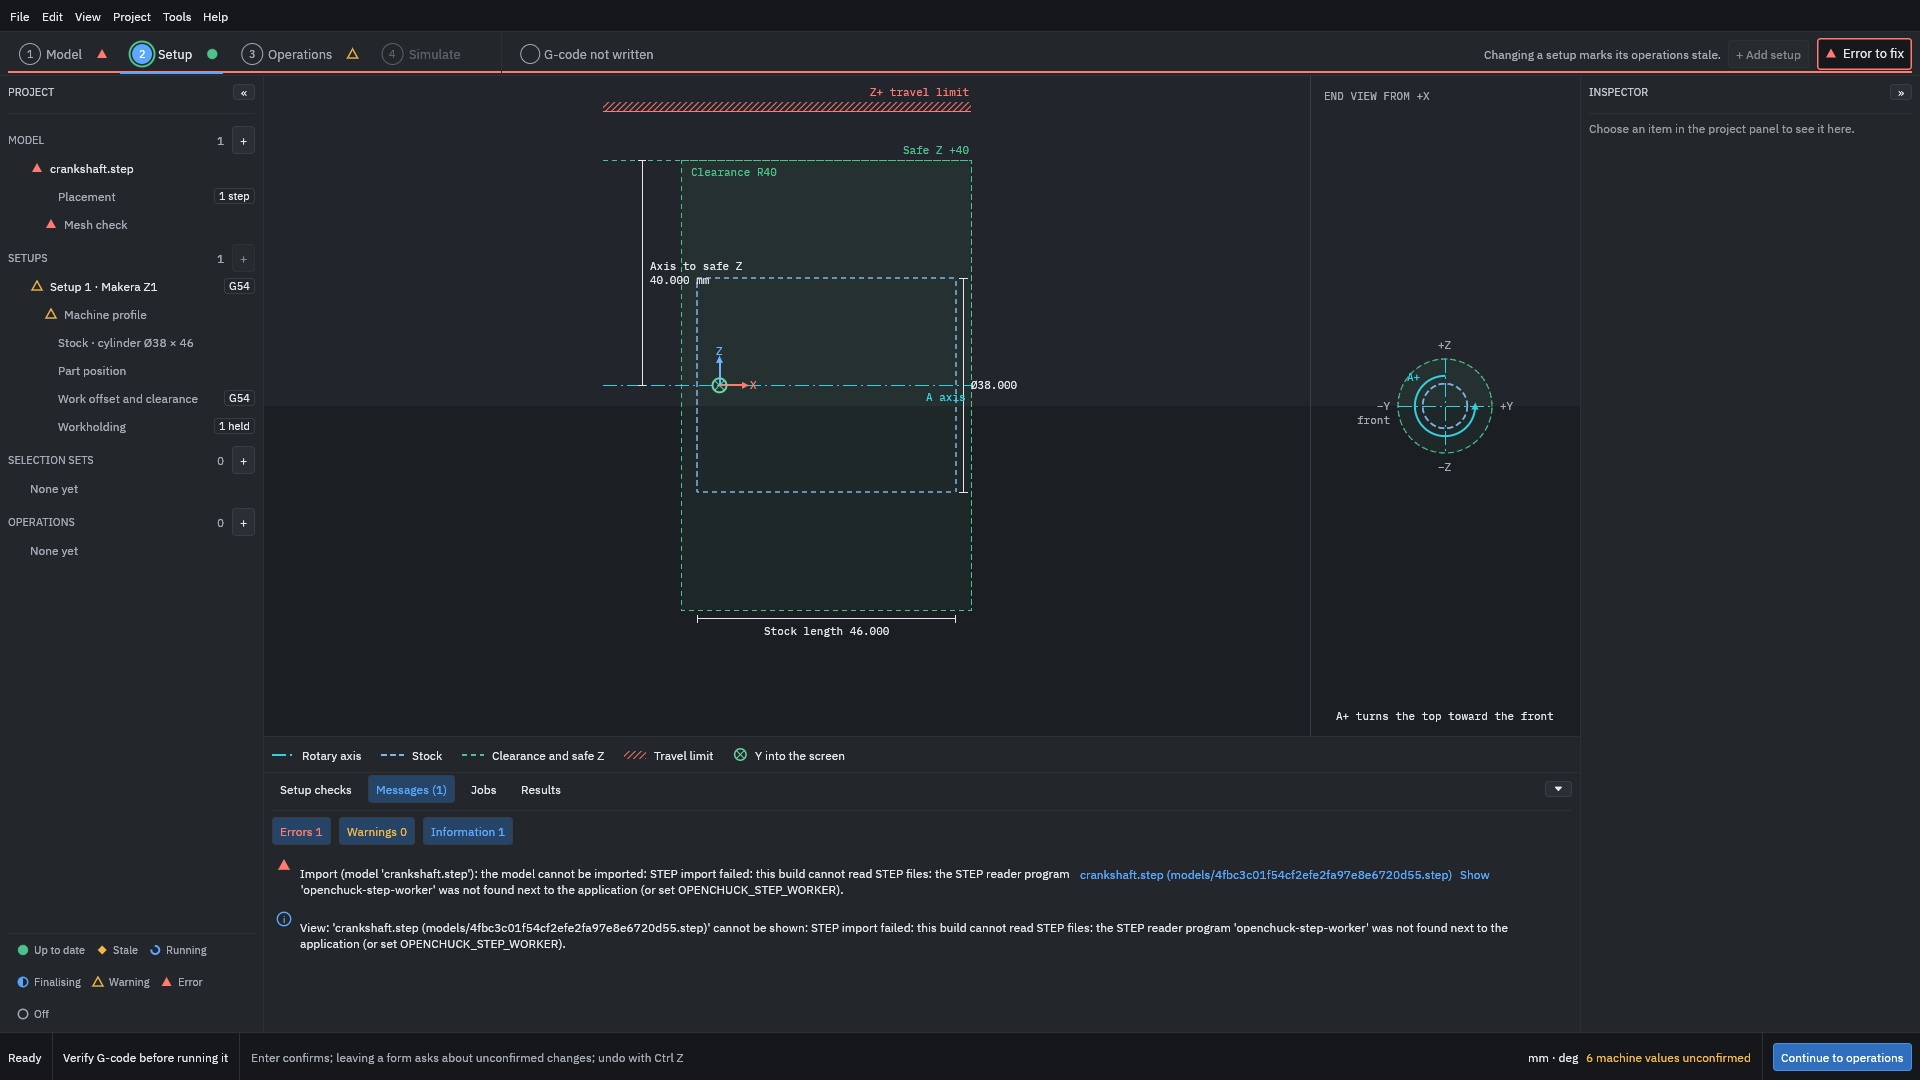
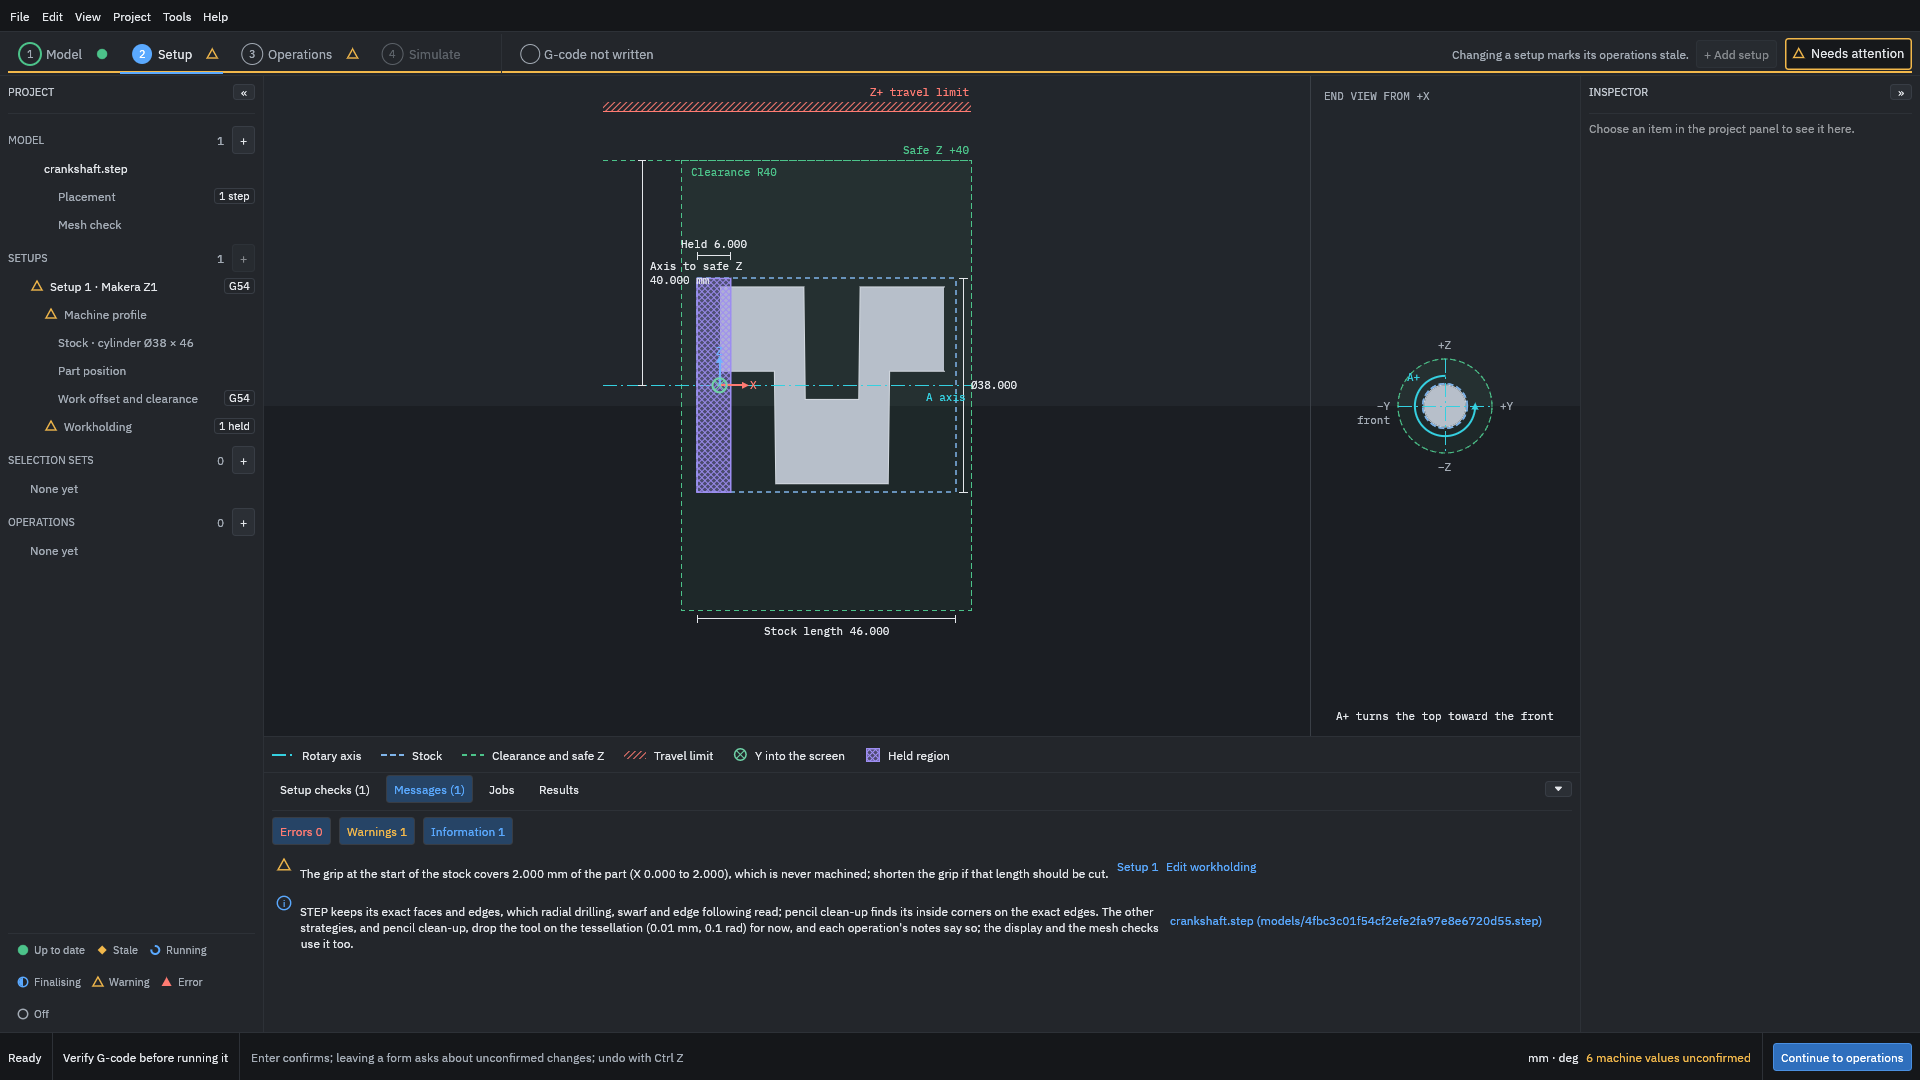
Lane SHOTS: keep main's simultaneous figures until the STEP worker is built; custom machine page matches its figures
The first recapture of the simultaneous example ran without the STEP reader
program, so every screen showed the import error.

Claude-Session: https://claude.ai/code/session_017vEio3cn51jfkcThfgXFi2

diff --git a/user-docs/src/examples/custom-machine.md b/user-docs/src/examples/custom-machine.md
@@ -63,7 +63,7 @@ Scroll down the form and go on:
 Set **Safe Z** before **Safe cylinder radius**: the safe Z cannot be below the safe cylinder, and a radius of 50 mm is refused while the safe Z is still the Z1's 40 mm.
 
 <figure>
-<a href="images/custom_machine/04-feeds-and-clearance.png"><img src="images/custom_machine/04-feeds-and-clearance.png" width="1920" height="1080" alt="The Maximum feeds, Clearance and Tools and spindle groups of the draft: feeds 3000, 1500 and 7200, rapids 5000, 3000 and 7200, A in the feed word Separate, safe cylinder radius 50.000, safe Z 60.000, highest tool number 99, each changed value Not confirmed on the machine."></a>
+<a href="images/custom_machine/04-feeds-and-clearance.png"><img src="images/custom_machine/04-feeds-and-clearance.png" width="1920" height="1080" alt="The Maximum feeds, Clearance and Tools and spindle groups of the draft: feeds 3000, 1500 and 7200, rapids 5000, 3000 and 7200, A in the feed word Separate, safe cylinder radius 50.000, safe Z 60.000, highest tool number 99, with Not confirmed on the machine and a Mark confirmed... button under the feeds and under the clearance values."></a>
 <figcaption><b>Figure 4.</b> The feeds, the clearance and the highest tool number of the example router.</figcaption>
 </figure>
 
@@ -106,7 +106,7 @@ When you have measured a value on the machine, click **Mark confirmed...** next 
 3. Click **Use this machine**. The project takes its own copy of the profile.
 
 <figure>
-<a href="images/custom_machine/08-in-use.png"><img src="images/custom_machine/08-in-use.png" width="1920" height="1080" alt="The Setup step with Setup 1 now on Example router: the view shows Safe Z +60 and Clearance R50; the Setup checks list four warnings, among them Safe Z cannot be checked against the Z travel because the axis height is not confirmed, and Tool 104 may take the spindle above the top of the Z travel at the safe Z; the status bar says 8 machine values unconfirmed."></a>
+<a href="images/custom_machine/08-in-use.png"><img src="images/custom_machine/08-in-use.png" width="1920" height="1080" alt="The Setup step with Setup 1 now on Example router: the view shows Safe Z +60 and Clearance R50; the Setup checks list four warnings, among them Safe Z cannot be checked against the Z travel because the axis height is not confirmed, and Tool length warnings that tools 104 and 204 may take the spindle above the top of the Z travel at the safe Z; the status bar says 8 machine values unconfirmed."></a>
 <figcaption><b>Figure 8.</b> The project on the example router. The view shows the new safe Z and clearance, and the setup checks show what the new values mean for this job.</figcaption>
 </figure>
 
@@ -115,7 +115,7 @@ When you have measured a value on the machine, click **Mark confirmed...** next 
 The setup checks now say:
 
 - "Safe Z cannot be checked against the Z travel: the machine's axis height is not confirmed on the machine." Confirm the axis height, and this check can be made.
-- "Tool 104 (Z1 O-flute 3.175x25) may take the spindle above the top of the Z travel at the safe Z ...", and the same for tool 204. The profile still has the Z1's **Spindle to axis** of 73.1 mm, and a safe Z of 60 mm leaves too little room above it for these tools. Measure the router's spindle-to-axis distance and set it; then lower the safe Z or use shorter tools if the warning remains. A tool that may take the spindle past the top of its travel is a possible collision, so if the warning is still there when you export, the export asks you to acknowledge it before it writes anything.
+- "Tool length (tool 'Z1 O-flute 3.175x25', setup 'Setup 1'): tool 104 may take the spindle above the top of the Z travel at the safe Z: ...", and the same for tool 204. The profile still has the Z1's **Spindle to axis** of 73.1 mm, and a safe Z of 60 mm leaves too little room above it for these tools. Measure the router's spindle-to-axis distance and set it; then lower the safe Z or use shorter tools if the warning remains. A tool that may take the spindle past the top of its travel is a possible collision, so if the warning is still there when you export, the export asks you to acknowledge it before it writes anything.
 
 The status bar counts the unconfirmed values: "8 machine values unconfirmed". Every operation is now out of date, because the machine changed; generate them again before you post.
 
